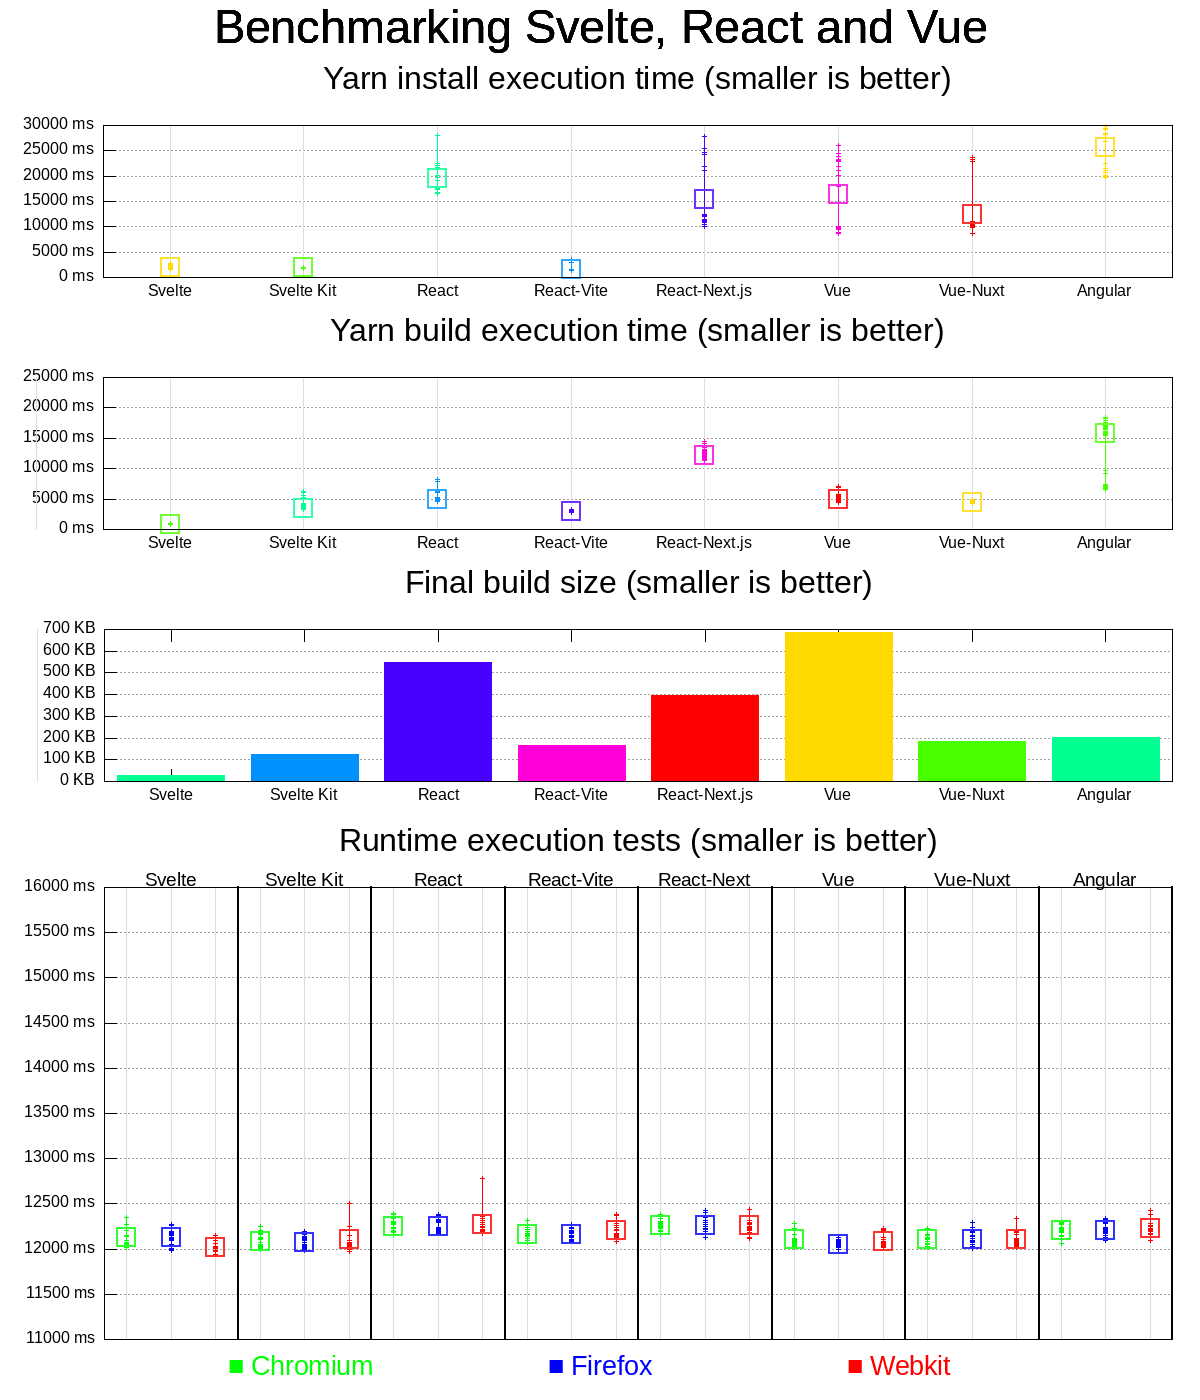
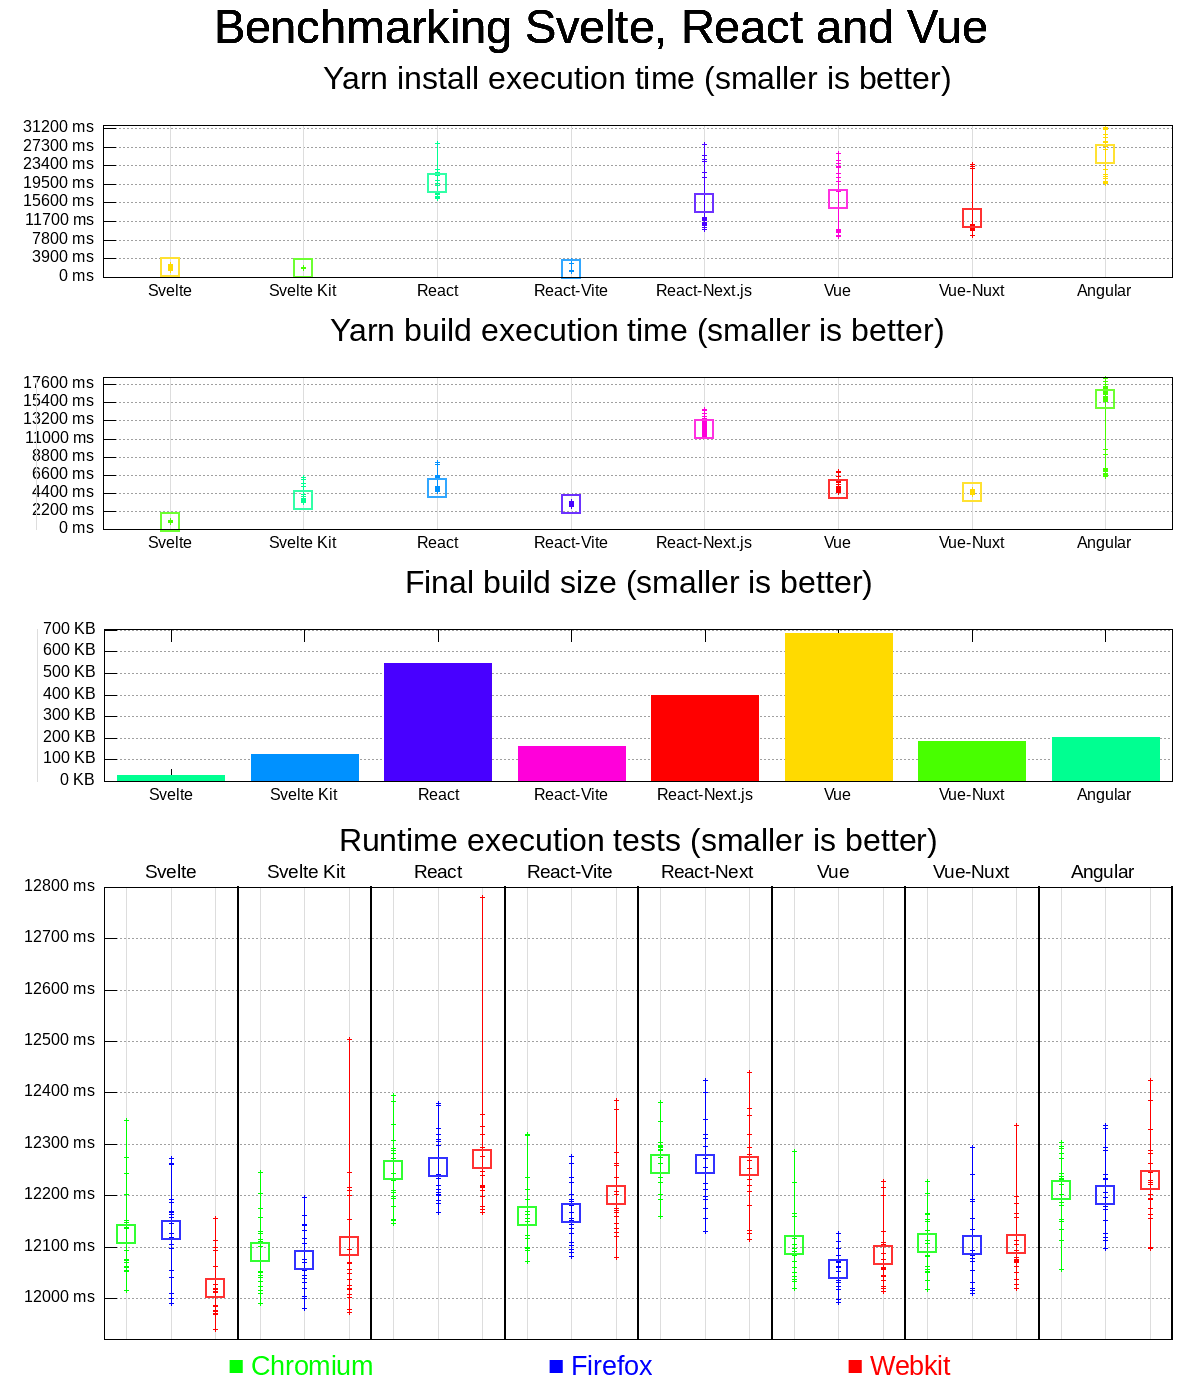
Cleanup data and plot ranges

diff --git a/README.md b/README.md
@@ -27,11 +27,11 @@ The benchmark is roughly a thousands of build tests and hundreds of runtime test
 
 Pictured results:
 
-| Server                       | A                      | B                     |
-|------------------------------|------------------------|-----------------------|
-| Results                      | ![](./output/dedi.png) | ![](./output/vps.png) |
-| Number of build benchmarks   | 307 | 317 |
-| Number of runtime benchmarks | 307 | 316 |
+| Server                       | A                      | B                     | C                       |
+|------------------------------|------------------------|-----------------------|-------------------------|
+| Results                      | ![](./output/dedi.png) | ![](./output/vps.png) | ![](./output/local.png) |
+| Number of build benchmarks   | 307 | 317 | | 242 |
+| Number of runtime benchmarks | 307 | 316 | 19 |
 
 ## How to reproduce
 
